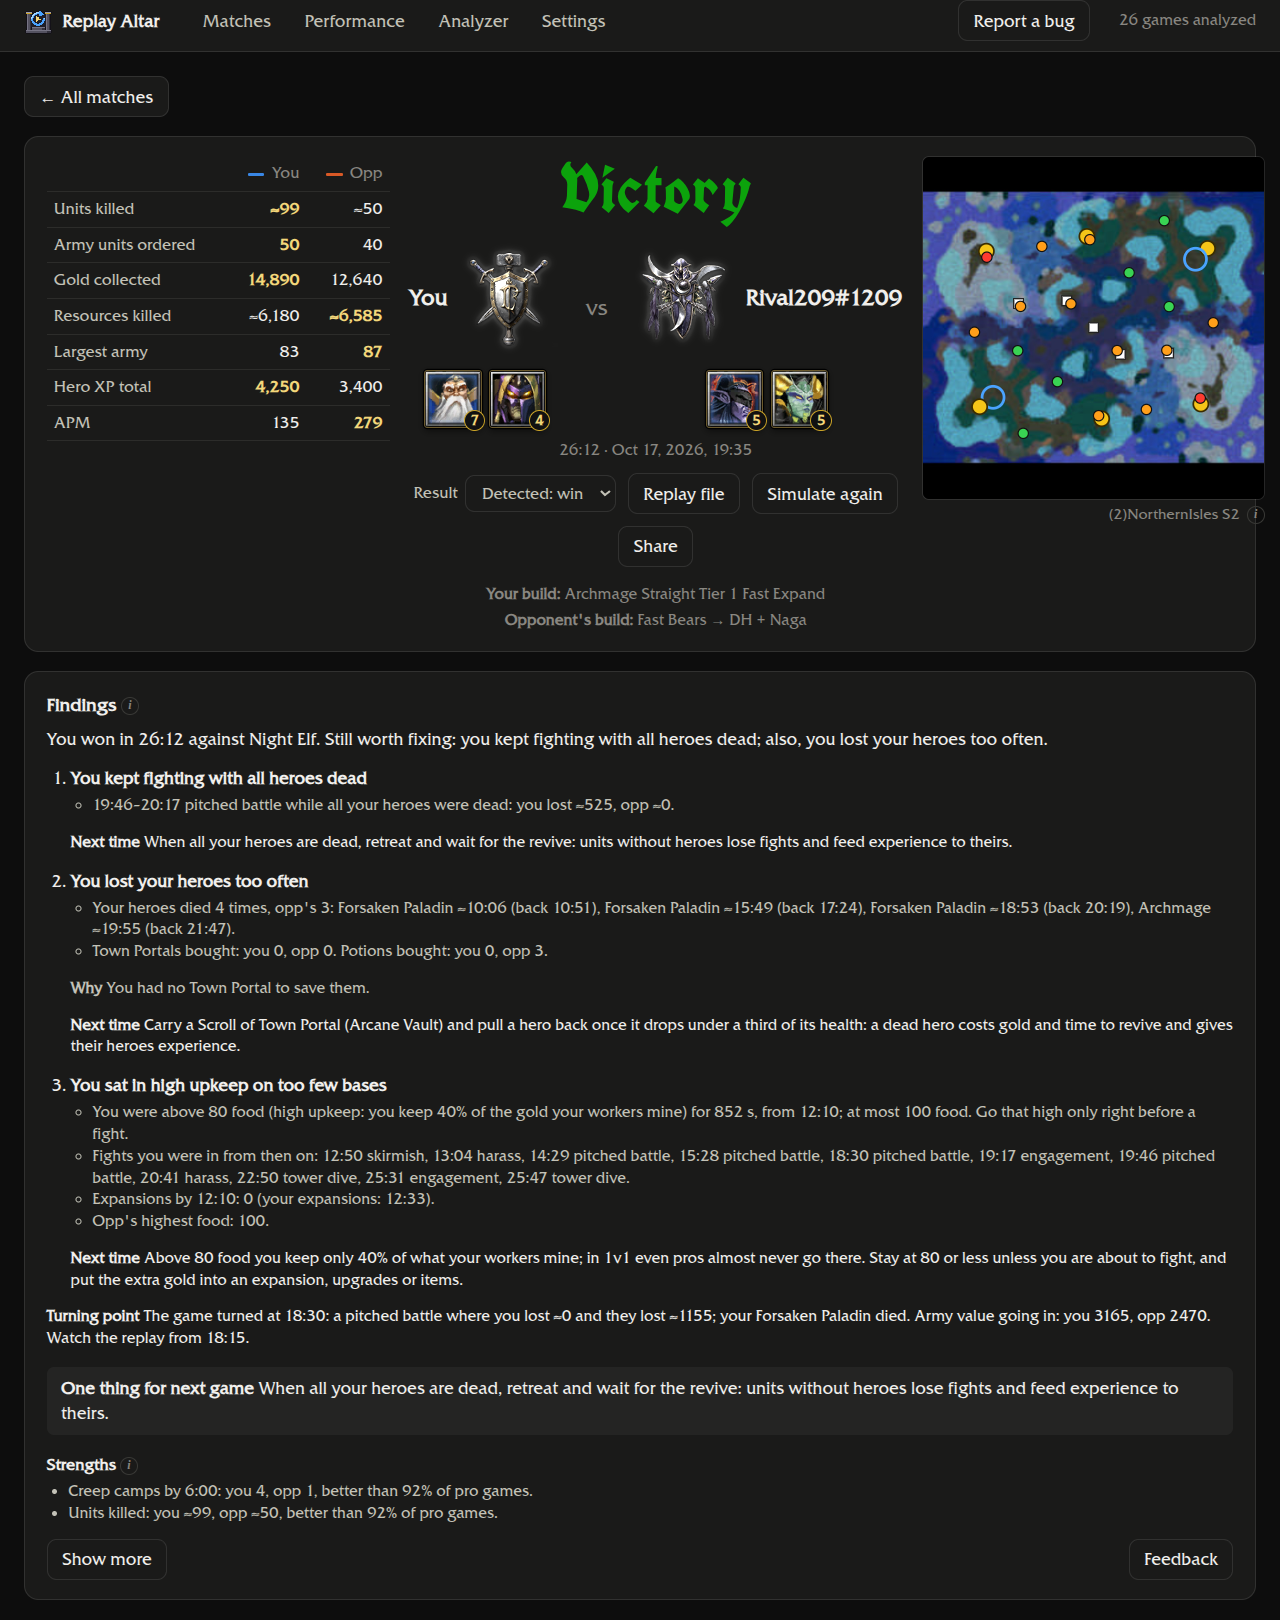
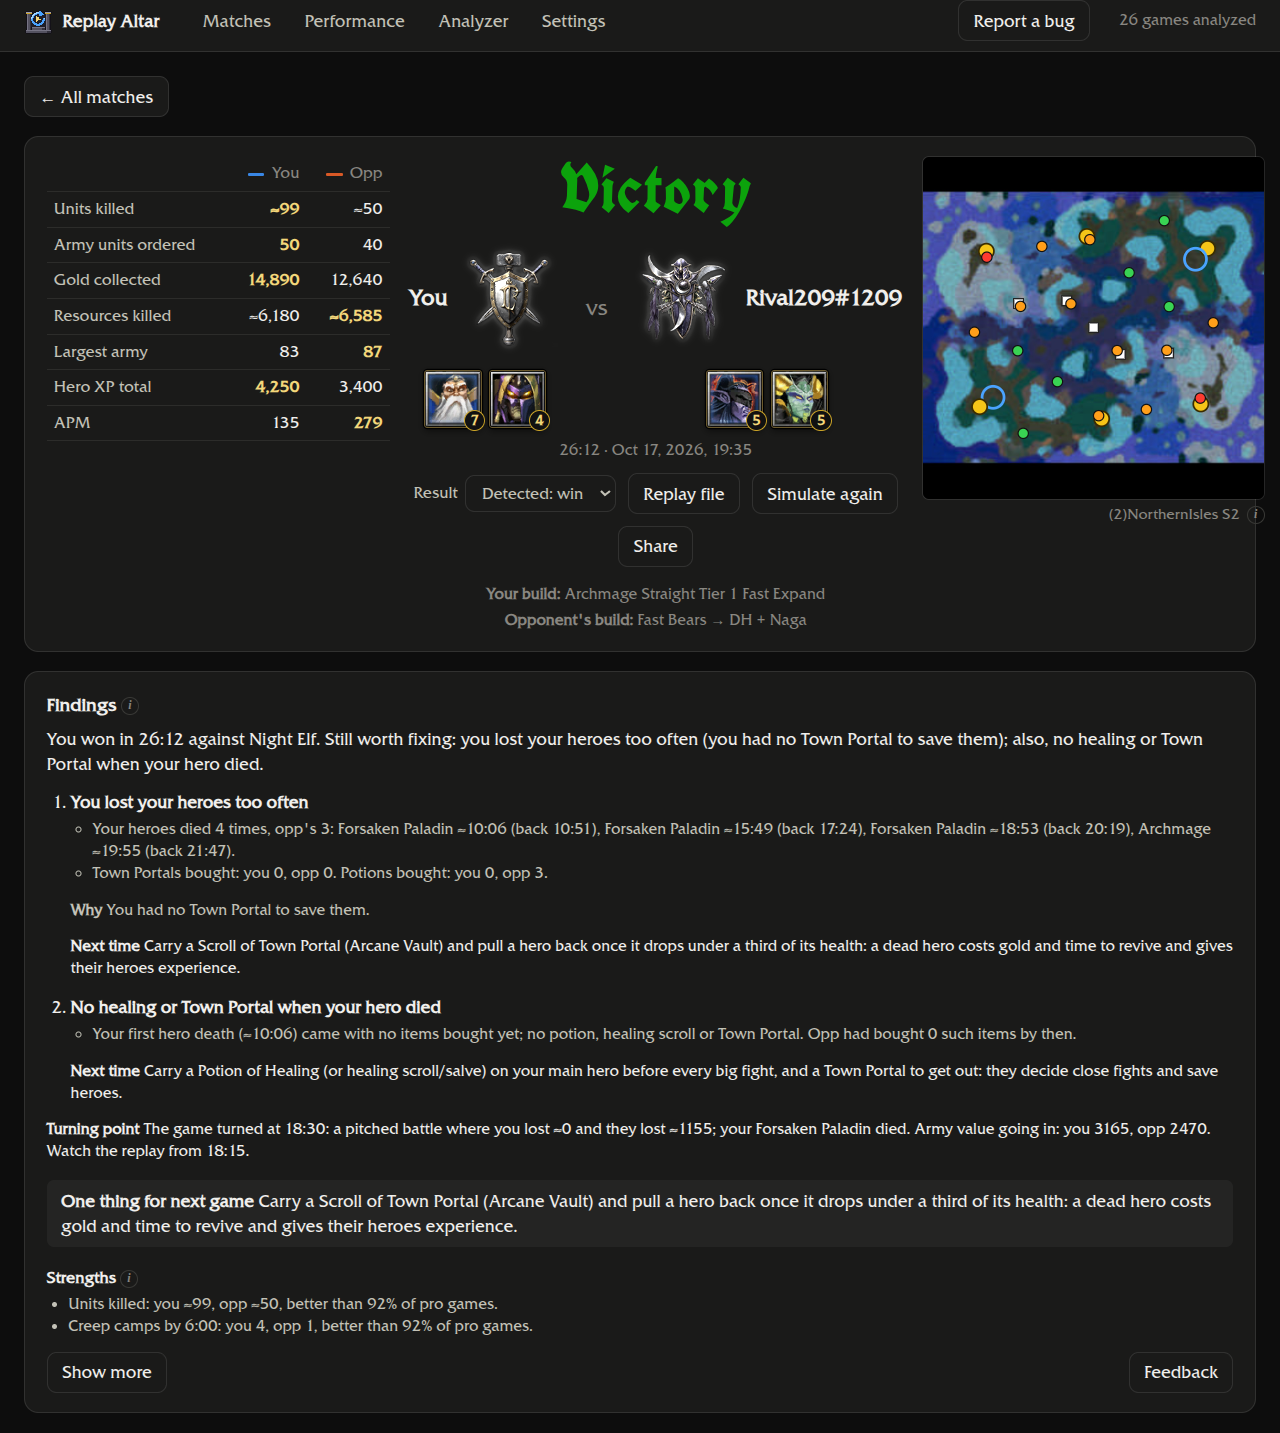
README: how the report is made, with the evidence; tested-on numbers in the feature list; report screenshots with the new findings

diff --git a/README.md b/README.md
@@ -2,14 +2,14 @@
 
 <h1 align="center">Replay Altar</h1>
 
-Replay Altar is a Warcraft III: Reforged replay analyzer for 1v1 players. It runs on your own computer, keeps every game you play, and after each one tells you what decided it and what to do differently next time, compared with tournament players of your race.
+Replay Altar is a Warcraft III: Reforged replay analyzer for 1v1 players. It runs on your own computer, keeps every game you play, and after each one tells you what decided it and what to do differently next time, compared with tournament players of your race. Everything it tells you is measured on real games: each finding, comparison and curve has been tested on thousands of tournament games, and the numbers are on this page.
 
 [Download](https://github.com/bubunuh/replay-altar/releases)
 
 - **Every replay kept, automatically.** A small background program saves each replay the moment a game ends, before the game overwrites `LastReplay.w3g`. Battle.net ladder, W3Champions and custom melee games are all picked up, with nothing to upload or click.
 - **The game reconstructed.** Each 1v1 is simulated from its replay with the [WC3V](https://github.com/jblanchette/wc3v) engine: workers, army value, supply, creep camps, hero levels and fights over time.
-- **A coach's report after every game.** Rules drawn from well-known guides (Grubby, Liquipedia, Warcraft 3 Gym, Vortix and others) name the problems that cost you the game, show the facts behind each one, explain why it happened and say what to do next time. The report also points out the fight that turned the game (with the moment to rewatch), your strengths and the opponent's plan.
-- **An evaluation curve, like in chess.** <kbd>upcoming</kbd> Who was ahead at every moment of the game, as how often a pro player in your position went on to win, with the three moments that swung it most and what moved them. [More below](#the-evaluation-curve).
+- **A coach's report after every game.** Rules drawn from well-known guides (Grubby, Liquipedia, Warcraft 3 Gym, Vortix and others) name the problems that cost you the game, show the facts behind each one, explain why it happened and say what to do next time. <kbd>upcoming</kbd> Only rules that proved themselves on 3,388 tournament player-games are shown: each one appears clearly more often in lost games than in won ones. The report also points out the fight that turned the game (with the moment to rewatch), your strengths and the opponent's plan. [More below](#how-the-report-is-made).
+- **An evaluation curve, like in chess.** <kbd>upcoming</kbd> Who was ahead at every moment of the game, as how often a pro player in your position went on to win, with the three moments that swung it most and what moved them. Learned from 513 pro games and tested on 2,998 tournament games it had never seen. [More below](#the-evaluation-curve).
 - **One thing to work on.** Each report ends with the single most useful habit for your next game. Across your recent games, the Performance page picks the problem that keeps coming back and shows whether it is getting better.
 - **Every number in context.** Your numbers are placed among about 1,700 tournament games of your race and matchup <kbd>upcoming</kbd> (until now about 200, current patch only) ("better than 86% of pro games"), with a green, yellow or red verdict: at pro level, at least as good as your opponent, or behind both.
 - **Knows your build.** It recognises the build order each player went for, from guide builds and builds mined from pro games, and shows where your timings drifted from the pros who play it.
@@ -24,6 +24,30 @@ Replay Altar is a Warcraft III: Reforged replay analyzer for 1v1 players. It run
 Your games stay on your computer. Replay Altar fetches only two things from the internet, and Settings can turn off either: the game's own end-of-game statistics for your W3Champions games (a few small requests per game, one game at a time; they carry both battletags), and once a day the list of Replay Altar releases from GitHub, to tell you when a new version is out. The pro statistics come with the app, and no maps are shipped: each game's map is read from your own copy. See the [privacy policy](PRIVACY.md).
 
 > Replay Altar is a fan project. It is not affiliated with, endorsed by or connected to Blizzard Entertainment. Warcraft is a trademark of Blizzard Entertainment, Inc. The game's data and pictures (unit costs, race crests, hero portraits, the game's font) are read from your own Warcraft III installation, never modified there, and never distributed with this project; the screenshots on this page only show them as the app displays them.
+
+## How the report is made
+
+**1. Reading the game.** A replay only records the players' orders, so Replay Altar rebuilds the game from them with the [WC3V](https://github.com/jblanchette/wc3v) simulation: workers, army, supply, creep camps, heroes and fights, every few seconds. Some of this can be checked against the game itself, and was:
+- **Hero experience** matches W3Champions' official numbers closely (correlation 0.96 on 56 pro player-games).
+- **Army value** was compared with Warcraft III's own unit counts on 50 recorded player-games: it is typically off by about 30%, so it is marked ≈ wherever it appears. <kbd>upcoming</kbd> A correction from the replay's selection lists cut that error by 29%.
+
+**2. Comparing with tournament players.** Every number is placed among about 1,700 player-games of your race <kbd>upcoming</kbd>: recent pro games on the current patch plus tournament games from 2022 to 2026, analyzed exactly like yours. "Better than 86% of pro games" means just that: 86% of those games had a worse number.
+
+**3. Deciding what mattered.** Each rule comes from a guide or from the pro data, and has to prove itself before it is shown <kbd>upcoming</kbd>. Every rule was run on 3,388 player-games whose results it had not been tuned on, from both players' side. A rule is shown only if it fires clearly more often in losses than in wins (the whole 95% confidence range above "no difference"). For example:
+
+| Finding | Appears in lost games | Appears in won games |
+|---|---|---|
+| Your fights cost far more than theirs | 39% | 13% |
+| Your heroes fell behind | 67% | 24% |
+| You lost your heroes too often | 14% | 6% |
+| No expansion in a long game | 7% | 3% |
+| They had more bases than you | 21% | 13% |
+
+11 rules passed and are shown; 18 did not, and stay hidden until they can be tuned for each skill level. On those games, a lost game gets about two findings and a won game about one. One check is shown whatever the result: playing without control groups or hotkeys, which 99 in 100 tournament players never do (measured on 8,294 player-games) <kbd>upcoming</kbd>.
+
+**4. What to do about it.** Each finding comes with the facts behind it, the likely reason found elsewhere in the game, and one concrete thing to do next time. Games of every race and level were also read by hand and compared with the report ([docs/REVIEWS.md](docs/REVIEWS.md)).
+
+Every rule, its source and its scores: [docs/RULES.md](docs/RULES.md). The milestones mined from the pro games: [docs/PRINCIPLES.md](docs/PRINCIPLES.md).
 
 ## The evaluation curve
 
@@ -149,7 +173,7 @@ When Warcraft III starts, the window opens behind the game without taking focus,
 - **Official numbers:** for W3Champions games, the game's own end-of-game statistics (gold and lumber collected, experience, units killed, upkeep lost) replace the estimates and are marked "official".
 - **Pro games:** tournament games from [warcraft3.info](https://warcraft3.info/replays/), collected by the maintainers rather than by each copy of the app, so the site gets one slow download per game instead of one per user. About 200 per race are recent games on the current patch: 1v1 games of at least 3 minutes by players with a curated profile, at most 20 per player. <kbd>upcoming</kbd> To these are added about 3,000 tournament games from 2022 to today, spread over the years and matchups, of players from semi-pro to the very top, on older patches too; every player of a race in them counts, which makes about 1,700 player-games per race. More games make the comparisons steadier; the price is a mix of patches and levels (on most numbers the medians differ by under a third of the pros' normal range). All are analyzed the same way as yours, and only the resulting statistics are published, in `data/reference/`, updated with new versions of Replay Altar.
 - **Verdicts:** the main numbers get a colour: green at or above the pro median, yellow when at least as good as your opponent, red below both. Timings that depend on strategy (tier, heroes, expansions) are compared without a better or worse.
-- **Findings:** [docs/RULES.md](docs/RULES.md) lists every rule, where it comes from and how well it separates pro losses from pro wins. [docs/PRINCIPLES.md](docs/PRINCIPLES.md) holds the milestones mined from the pro games; [docs/DATA.md](docs/DATA.md) describes the data format.
+- **Findings:** see [How the report is made](#how-the-report-is-made); [docs/RULES.md](docs/RULES.md) lists every rule, where it comes from and how well it separates losses from wins. [docs/PRINCIPLES.md](docs/PRINCIPLES.md) holds the milestones mined from the pro games; [docs/DATA.md](docs/DATA.md) describes the data format.
 
 After a game patch, run `node scripts/extract-gamedata.ts` and `node scripts/extract-combat.ts` (Linux checkout) so unit costs and combat data follow the new balance, then update the pro games. The Windows version reads the game data again by itself.
 
